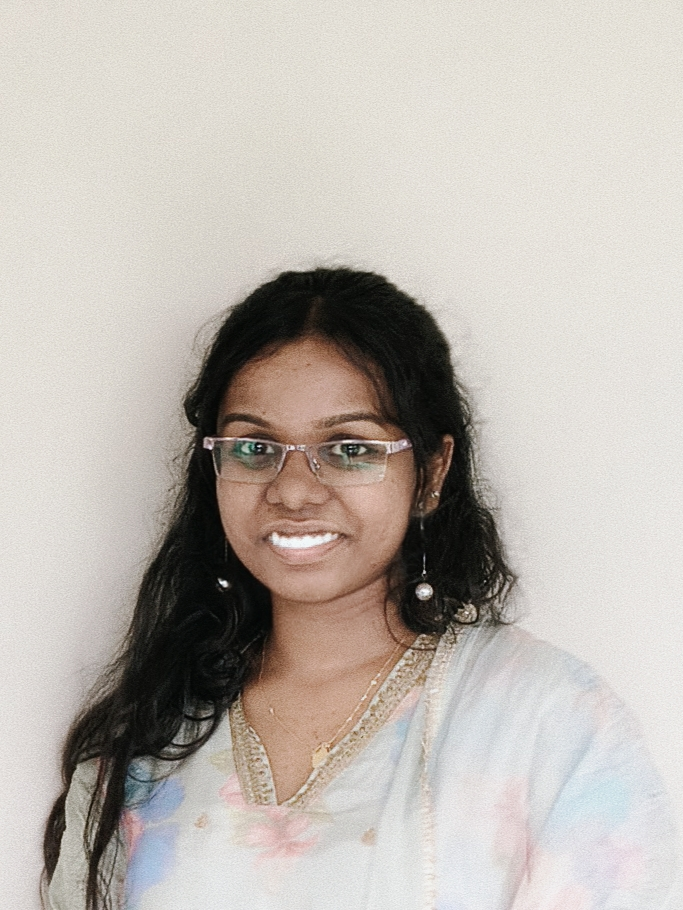
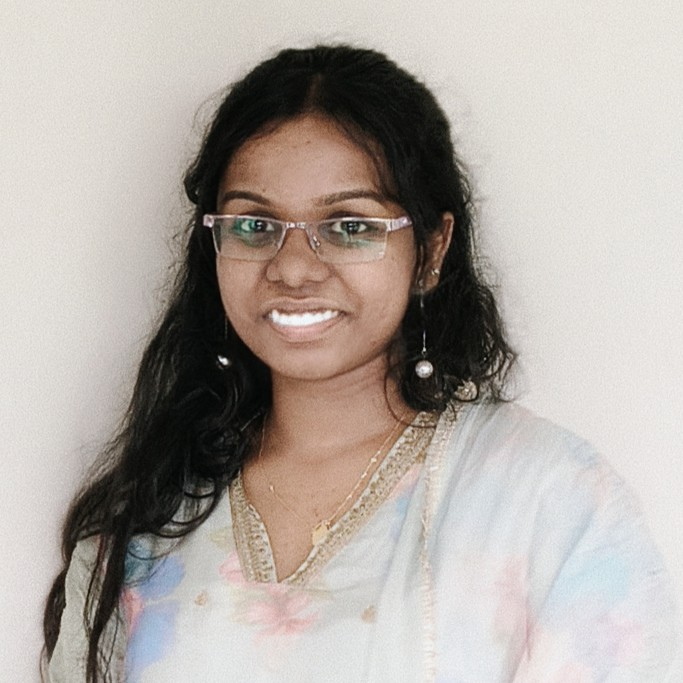
image correction

diff --git a/css/styles.css b/css/styles.css
@@ -58,11 +58,16 @@ main {
   text-align: center;
 }
 
+.card img{
+   max-width: 100%;
+   height: auto;
+}
+
 /* === Profile Photo Styling === */
 .profile-photo {
   width: 150px;
   height: 150px;
-  border-radius: 50%;git 
+  border-radius: 50%;
   object-fit: cover;
   box-shadow: 0 8px 20px rgba(0, 0, 0, 0.15);
   margin-bottom: 1rem;
